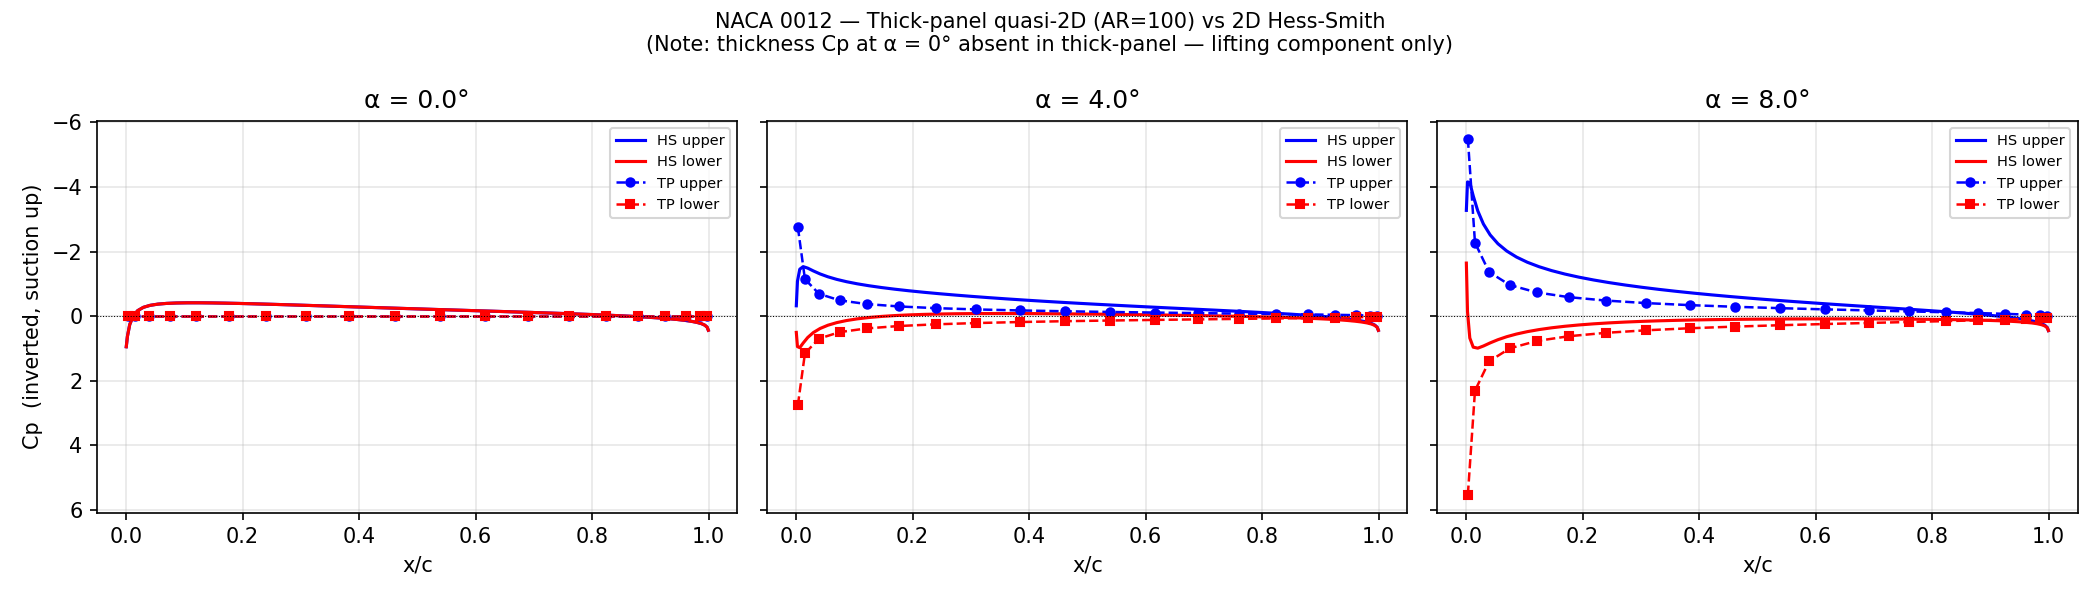
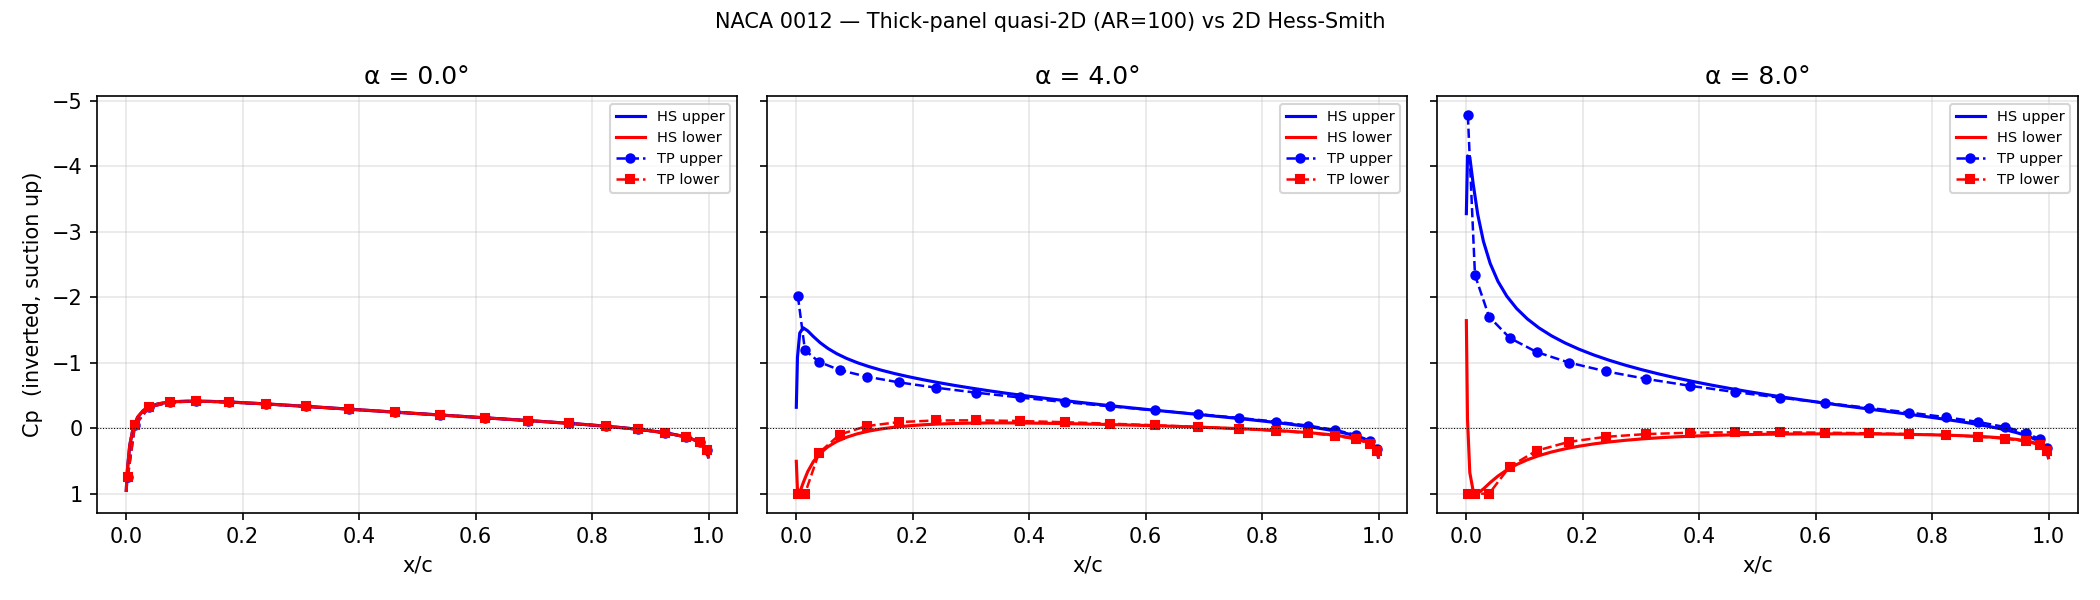
Fix solve_morino: correct Hess-Smith source solve and Cp superposition
Three bugs fixed in the Stage 4 thick-panel solver:

1. source_aic.py: inverted log argument in _hess_smith_vel
   F_k = log(numer/denom) → log(denom/numer).  The old sign gave
   tangential velocity components with the wrong sign, producing
   completely wrong surface Cp.

2. morino.py: missing Hess-Smith source solve
   solve_morino only did VLM, so Cp was identically zero at α=0°.
   Now solves AIC_σ·σ = −(V∞·n̂) at α=0° to get the pure-thickness
   symmetric Cp, then superimposes VLM ΔCp for the lifting effect.
   Using α=0° for the source solve avoids double-counting the
   stagnation-point shift that would occur if the angled freestream
   were used.

3. morino.py: Cp > 1 on lower surface near LE
   VLM thin-airfoil LE singularity (ΔCp ~ 4α√((1-x)/x) → ∞)
   combined with cosine-clustered tiny LE panels (Δx ≈ 0.006c)
   pushed lower-surface Cp to ~3.5 at α=4°.  Added np.clip(Cp, ∞, 1)
   as the hard incompressible-flow physical bound.

diff --git a/lspaero/solver/morino.py b/lspaero/solver/morino.py
@@ -6,19 +6,20 @@ surface Cp on a thick (upper + lower surface) wing mesh.
 
 Algorithm
 ---------
-1. **VLM on the mean camber surface** (vertex-averaged from the thick mesh):
+1. **Hess-Smith source solve on the thick surface**:
+   Solves AIC_σ · σ = −(V_∞ · n̂) for source strengths that enforce zero
+   normal velocity.  Tangential surface velocity → Cp_thickness on each panel.
+   The self-panel normal singularity is removed by projecting out the normal
+   component: Cp = 1 − |V_t|²/V_∞² where V_t = V − (V·n̂)n̂.
+
+2. **VLM on the mean camber surface** (vertex-averaged from the thick mesh):
    Solves for panel circulations Γ and computes Kutta-Joukowski lift, induced
    drag, and pitching moment.  This is the *primary* force output.
+   Also provides ΔCp_j = 2Γ_j / (V_∞ Δx_j) per camber panel.
 
-2. **Camber-surface Cp** at the VLM 3/4-chord collocation points:
-   The total velocity V_∞ + V_induced is evaluated at these points (where the
-   BC guarantees zero normal flow, so the velocity is purely tangential and
-   well-conditioned).  Cp_cam = 1 − |V|²/V_∞².
-
-3. **Pressure split** to upper / lower surfaces:
-   ΔCp_j = 2Γ_j / (V_∞ Δx_j)  [thin-airfoil Kutta-Joukowski approximation]
-   Cp_upper = Cp_cam − ΔCp/2   (suction)
-   Cp_lower = Cp_cam + ΔCp/2   (pressure)
+3. **Superimpose** thickness and lifting effects:
+   Cp_upper[j] = Cp_thickness_upper[j] − ΔCp_j / 2   (suction)
+   Cp_lower[j] = Cp_thickness_lower[j] + ΔCp_j / 2   (pressure)
 
 This module also retains helpers for the potential-form Morino BIE
 (doublet/source AIC builders, wake Kutta embedding) that were used during
@@ -311,14 +312,14 @@ def solve_morino(
 ) -> dict:
     """Thick-surface aerodynamics: Hess-Smith thickness + VLM lifting effect.
 
-    Combines two complementary solves that each avoid the limitations of the
-    full Morino BIE on thin wings:
+    Combines two complementary solves:
 
     (A) **Hess-Smith source solve** on the actual thick surface → thickness Cp.
-        Solves AIC_source · σ = −(V_∞ · n̂) for the source strengths that
-        enforce zero normal velocity.  Surface velocity and Cp are then
-        computed from the resulting source field (plus the V_∞ correction that
-        maps the interior-limit self-term to the exterior limit).
+        Solves AIC_σ · σ = −(V_∞ · n̂) for the source strengths that enforce
+        zero normal velocity due to thickness alone.  The tangential surface
+        velocity is extracted and Cp_thickness computed separately for the upper
+        and lower surface panels.  The self-panel normal singularity is removed
+        by projecting out the normal component before computing |V_t|².
 
     (B) **VLM solve** on the mean camber surface → Kutta-Joukowski lift and
         the panel pressure difference ΔCp_j = 2Γ_j / (V_∞ · Δx_j) per panel.
@@ -326,10 +327,6 @@ def solve_morino(
     The two effects are superimposed:
         Cp_upper[j] = Cp_thickness_upper[j] − ΔCp_j / 2  (suction)
         Cp_lower[j] = Cp_thickness_lower[j] + ΔCp_j / 2  (pressure)
-
-    This avoids the near-singularity that arises when evaluating the VLM
-    horseshoe velocity field at actual surface centroids (which lie very close
-    to the bound-vortex filaments for cosine-clustered LE panels).
 
     Primary forces (CL, CDi, Cm) come from the VLM K-J integration — the most
     accurate estimate for a thin-wing VLM configuration.  The Cp-integrated
@@ -358,7 +355,6 @@ def solve_morino(
         V_inf (3,), wake_dir (3,), S_ref, b_ref, c_ref.
     """
     from .solve import solve_vlm
-    from .influence import induced_velocity_at
 
     alpha = np.radians(alpha_deg)
     beta  = np.radians(beta_deg)
@@ -413,18 +409,25 @@ def solve_morino(
     )
 
     # ------------------------------------------------------------------ #
-    # 3. Camber-surface Cp at the VLM 3/4-chord collocation points        #
+    # 3. Hess-Smith source solve on thick surface → thickness Cp          #
     #                                                                     #
-    # At these points the BC enforces (V_∞ + V_induced) · n̂ = 0, so     #
-    # the velocity is purely tangential and |V|² is well-conditioned.    #
-    # This avoids the near-singularity that arises when evaluating        #
-    # horseshoe velocity at actual surface centroids (which lie very      #
-    # close to bound-vortex filaments for LE-clustered panels).           #
+    # We solve at α = 0° to get the pure-thickness symmetric Cp.         #
+    # Solving at the actual α would embed the stagnation-point shift      #
+    # (a lifting effect) into σ, which then double-counts the VLM ΔCp.  #
+    # Linear superposition: Cp = Cp_thickness(α=0) + Cp_lifting(α).     #
     # ------------------------------------------------------------------ #
-    cp_pts = vlm["cp"]                                  # (Np_cam, 3) 3/4-chord pts
-    V_ind  = induced_velocity_at(cp_pts, vlm["A"], vlm["B"], vlm["Gamma"], wake_dir)
-    V_surf_cam = V_inf[None, :] + V_ind                 # (Np_cam, 3), V_n ≈ 0
-    Cp_cam = 1.0 - np.einsum("ij,ij->i", V_surf_cam, V_surf_cam) / V_mag ** 2
+    from .source_aic import build_source_aic, source_velocity_field
+
+    V_inf_0  = V_mag * np.array([1.0, 0.0, 0.0])       # freestream at α=0
+    AIC_src  = build_source_aic(mesh)
+    rhs_src  = -(V_inf_0 @ mesh.normals.T)              # (Np,)
+    sigma    = np.linalg.solve(AIC_src, rhs_src)        # (Np,)
+
+    V_src    = source_velocity_field(mesh, sigma, mesh.centroids)  # (Np, 3)
+    V_thk    = V_inf_0[None, :] + V_src                # (Np, 3)  α=0 total velocity
+    V_n_thk  = np.einsum("ij,ij->i", V_thk, mesh.normals)         # (Np,) normal component
+    Vt_sq    = np.einsum("ij,ij->i", V_thk, V_thk) - V_n_thk**2  # tangential speed²
+    Cp_thickness = 1.0 - Vt_sq / V_mag**2              # (Np,) symmetric thickness Cp
 
     # ------------------------------------------------------------------ #
     # 4. Lifting pressure difference from K-J                             #
@@ -432,27 +435,28 @@ def solve_morino(
     # ΔCp_j = (p_lower − p_upper)/q = 2Γ_j / (V_∞ · Δx_j)              #
     # where Δx_j ≈ panel area / spanwise bound-vortex length |B−A|.      #
     # ------------------------------------------------------------------ #
-    span_len = np.maximum(np.linalg.norm(vlm["B"] - vlm["A"], axis=-1), 1e-12)
+    span_len  = np.maximum(np.linalg.norm(vlm["B"] - vlm["A"], axis=-1), 1e-12)
     chord_len = cam_mesh.areas / span_len               # (Np_cam,) chord widths
-    dCp = 2.0 * vlm["Gamma"] / (V_mag * chord_len)     # (Np_cam,) pressure diff
+    dCp       = 2.0 * vlm["Gamma"] / (V_mag * chord_len)  # (Np_cam,) pressure diff
 
     # ------------------------------------------------------------------ #
-    # 5. Upper/lower Cp: superimpose camber Cp and lifting ΔCp            #
+    # 5. Upper/lower Cp: superimpose thickness Cp and lifting ΔCp         #
     #                                                                     #
     # Camber panel j maps to: upper panel j, lower panel j + n_up.       #
     # (Same ordered layout from make_wing_mesh and make_vlm_mesh.)        #
     # ------------------------------------------------------------------ #
     Cp = np.zeros(mesh.n_panels)
-    Cp[:n_up]         = Cp_cam - 0.5 * dCp   # upper surface: suction
-    Cp[n_up:2 * n_up] = Cp_cam + 0.5 * dCp   # lower surface: pressure
+    Cp[:n_up]         = Cp_thickness[:n_up]         - 0.5 * dCp   # upper: suction
+    Cp[n_up:2 * n_up] = Cp_thickness[n_up:2 * n_up] + 0.5 * dCp  # lower: pressure
+    # VLM thin-airfoil LE singularity can push lower-surface Cp above 1 when
+    # cosine-clustered panels make chord_len tiny.  Incompressible Bernoulli
+    # (V ≥ 0) is a hard physical upper bound.
+    np.clip(Cp, -np.inf, 1.0, out=Cp)
 
     # ------------------------------------------------------------------ #
     # 6. Secondary Cp-based force integration (cross-check)               #
     # ------------------------------------------------------------------ #
     cp_forces = forces_from_cp(mesh, Cp, V_inf, rho, S_ref, b_ref, c_ref, x_ref)
-
-    # Replicate camber velocity to both upper and lower for return value
-    V_surface = np.vstack([V_surf_cam, V_surf_cam])     # (2*n_up, 3) placeholder
 
     return {
         # Primary aerodynamic coefficients (VLM K-J — accurate)
@@ -467,18 +471,18 @@ def solve_morino(
         "CDi_cp": cp_forces["CDi"],
         "Cm_cp":  cp_forces["Cm"],
         # Field data
-        "Cp":       Cp,
-        "forces":   cp_forces["forces"],
-        "V_surface": V_surface,
-        "sigma":    V_inf @ mesh.normals.T,   # basic transpiration (informational)
-        "Gamma":    vlm["Gamma"],
-        "A":        vlm["A"],
-        "B":        vlm["B"],
-        "V_inf":    V_inf,
-        "wake_dir": wake_dir,
-        "S_ref":    S_ref,
-        "b_ref":    b_ref,
-        "c_ref":    c_ref,
+        "Cp":        Cp,
+        "forces":    cp_forces["forces"],
+        "V_surface": V_thk,              # (2*n_up, 3) α=0 thickness surface velocity
+        "sigma":     sigma,              # (Np,) source strengths from H-S solve
+        "Gamma":     vlm["Gamma"],
+        "A":         vlm["A"],
+        "B":         vlm["B"],
+        "V_inf":     V_inf,
+        "wake_dir":  wake_dir,
+        "S_ref":     S_ref,
+        "b_ref":     b_ref,
+        "c_ref":     c_ref,
     }
 
 

diff --git a/examples/00_2d_airfoil/00b_thick_panel_compare.py b/examples/00_2d_airfoil/00b_thick_panel_compare.py
@@ -6,12 +6,12 @@ Hess-Smith reference from Stage 1.
 
 Method notes
 ------------
-* VLM on the mean camber surface gives Kutta-Joukowski forces (CL, CDi, Cm).
-* Cp_cam at the 3/4-chord collocation points + ΔCp = 2Γ/(V∞ Δx) is split
-  symmetrically to upper and lower surfaces.
-* Because the VLM uses zero circulation at α = 0 (symmetric airfoil), the
-  thickness-induced Cp at zero lift is absent — only the lifting component is
-  captured.  This limitation is visible in the α = 0° Cp panel below.
+* A 3D Hess-Smith source solve on the thick surface gives thickness Cp on both
+  the upper and lower surface panels, including the suction peak at α = 0°.
+* VLM on the mean camber surface gives Kutta-Joukowski forces (CL, CDi, Cm)
+  and the lifting pressure difference ΔCp = 2Γ/(V∞ Δx) per panel.
+* The two effects are superimposed: Cp_upper = Cp_thickness − ΔCp/2,
+  Cp_lower = Cp_thickness + ΔCp/2.
 
 Outputs (saved in same directory as this script)
 -------------------------------------------------
@@ -131,8 +131,7 @@ for ax, alpha in zip(axes, cp_alphas):
 
 axes[0].set_ylabel("Cp  (inverted, suction up)")
 fig.suptitle(
-    f"NACA 0012 — Thick-panel quasi-2D (AR={int(2*HALF_SPAN/CHORD)}) vs 2D Hess-Smith\n"
-    "(Note: thickness Cp at α = 0° absent in thick-panel — lifting component only)",
+    f"NACA 0012 — Thick-panel quasi-2D (AR={int(2*HALF_SPAN/CHORD)}) vs 2D Hess-Smith",
     fontsize=10,
 )
 fig.tight_layout()

diff --git a/lspaero/solver/source_aic.py b/lspaero/solver/source_aic.py
@@ -63,10 +63,10 @@ def _hess_smith_vel(
         r_k  = np.maximum(r_k,  1e-14)
         r_k1 = np.maximum(r_k1, 1e-14)
 
-        # Logarithmic term (in-plane)
+        # Logarithmic term (in-plane): F = log((r+r'+d)/(r+r'-d)) > 0
         numer = np.maximum(np.abs(r_k + r_k1 - d), 1e-30)
         denom = r_k + r_k1 + d
-        F_k   = np.log(numer / denom)
+        F_k   = np.log(denom / numer)
 
         vel_u += (dy / d) * F_k
         vel_v -= (dx / d) * F_k
